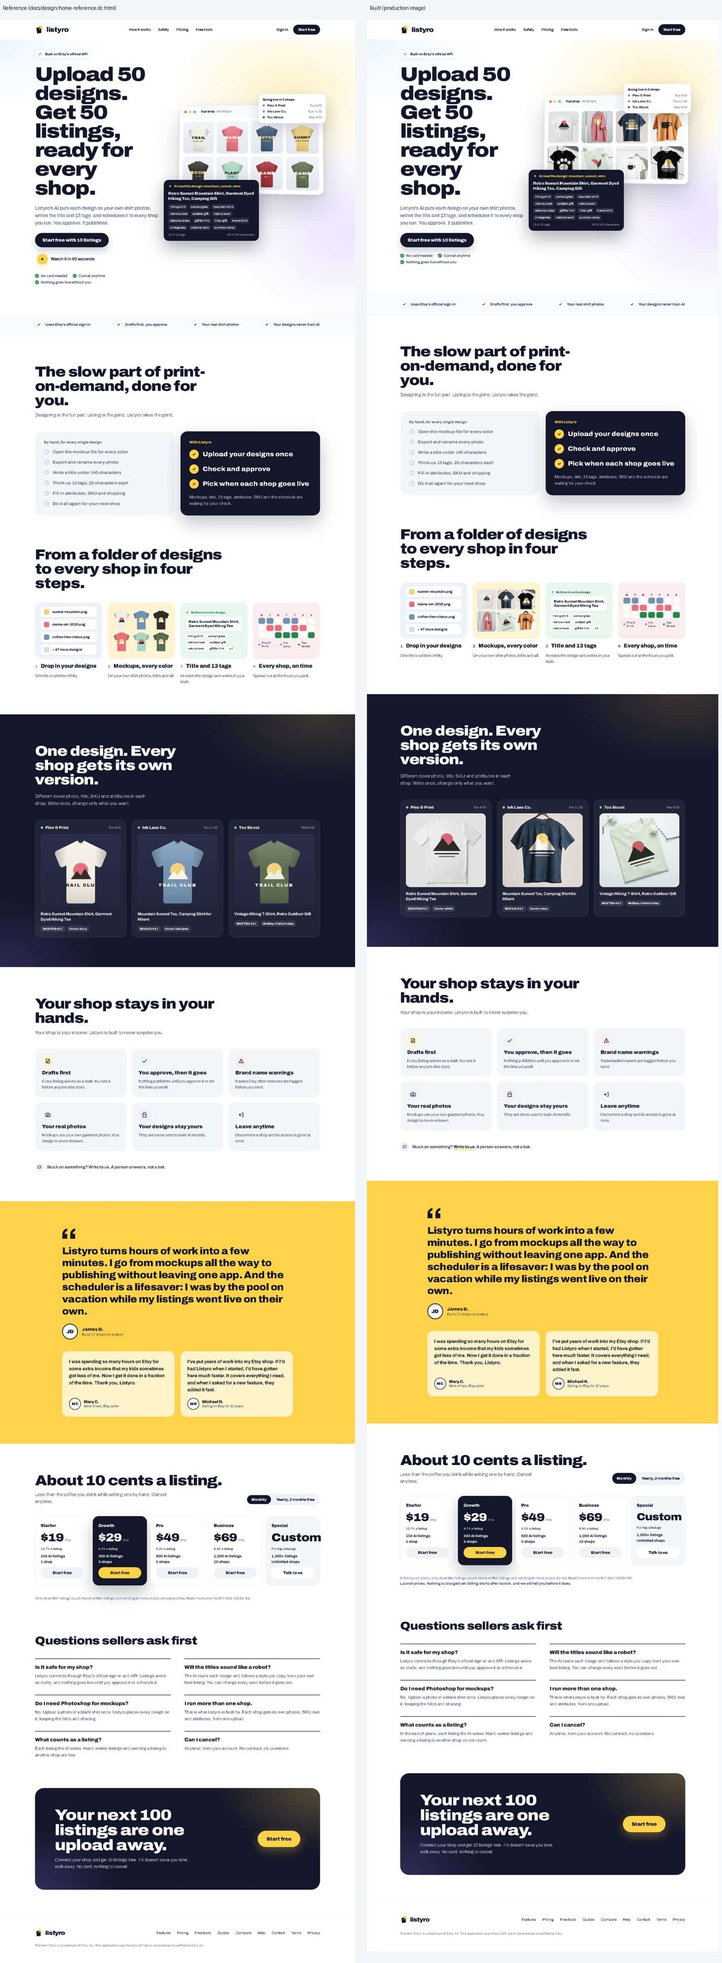
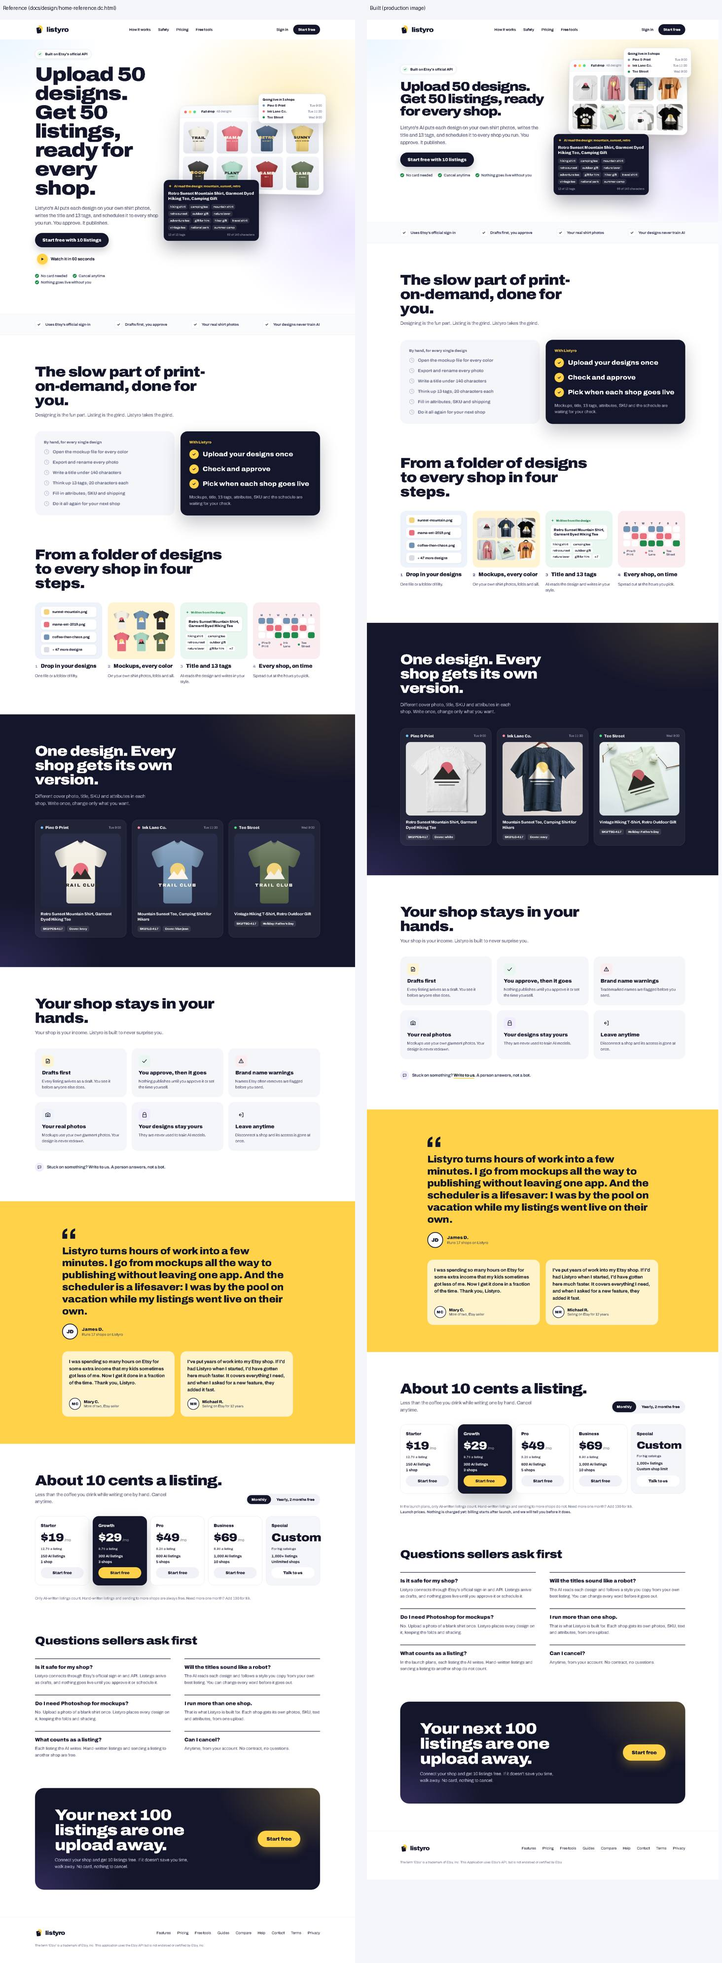
Site v3: the headline in three lines on desktop; the Special plan says Custom shop limit
The text column takes 6fr on desktop and the h1 is at most 11.6em wide, sized to its column (at most 64 px),
so it breaks as "Upload 50 designs. / Get 50 listings, ready / for every shop.". The app-wide cap is 200
shops, so the Special card no longer says unlimited.

diff --git a/frontend/lib/plans.test.ts b/frontend/lib/plans.test.ts
@@ -39,7 +39,7 @@ test("the plan config: the launch plans as agreed (7 November 2026)", () => {
   assert.match(TRIAL.line, /^10 free AI listings once you connect an Etsy shop that has never had a trial\./);
   assert.equal(SPECIAL.name, "Special");
   assert.match(SPECIAL.body, /More than 1,000 AI listings a month/);
-  assert.deepEqual([SPECIAL.price, SPECIAL.unit, SPECIAL.listings, SPECIAL.shops], ["Custom", "For big catalogs", "1,000+ listings", "Unlimited shops"]);
+  assert.deepEqual([SPECIAL.price, SPECIAL.unit, SPECIAL.listings, SPECIAL.shops], ["Custom", "For big catalogs", "1,000+ listings", "Custom shop limit"]);
   assert.deepEqual(SPECIAL.cta, { label: "Talk to us", href: "/request-invite?plan=custom" });
   // Each plan is larger than the one before it in everything that is counted.
   for (let i = 1; i < PLANS.length; i++) {

diff --git a/frontend/app/globals.css b/frontend/app/globals.css
@@ -240,6 +240,22 @@ body {
   gap: 48px;
   align-items: center;
 }
+/* Desktop (owner, 8 November 2026): the headline in three lines, "Upload 50 designs. / Get 50 listings, ready /
+   for every shop.". The text column gets 6fr; the h1 is 11.6em wide at most (the second line is 11.4em, so the
+   breaks fall there without <br>), and its size is the column's 1/11.6, never above 64 px, so the three lines
+   always fit (about 52 px in the 1,156 px content of 1366 and 1440). Phones and tablets keep the clamp. */
+@media (min-width: 1001px) {
+  .lx-hero {
+    grid-template-columns: minmax(0, 6fr) minmax(0, 5fr);
+  }
+  .lx-hero-text {
+    container-type: inline-size;
+  }
+  .lx-hero-text .lx-h1 {
+    font-size: min(64px, 8.6cqi);
+    max-width: 11.6em;
+  }
+}
 .lx-hv {
   position: relative;
   height: 580px;

diff --git a/frontend/lib/plans.ts b/frontend/lib/plans.ts
@@ -84,7 +84,8 @@ export const SPECIAL = {
   price: "Custom",
   unit: "For big catalogs",
   listings: "1,000+ listings",
-  shops: "Unlimited shops",
+  // The app-wide cap is 200 shops and the number is set per account: not "unlimited".
+  shops: "Custom shop limit",
   cta: { label: "Talk to us", href: "/request-invite?plan=custom" },
 };
 

diff --git a/CLAUDE.md b/CLAUDE.md
@@ -6,7 +6,7 @@ Aşama: davetle erken erişim. Etsy erişim seviyesi: **Commercial Access** (19 
 
 > Etsy, Listyro'yu 19 Ekim 2026'da Commercial Access için onayladı: uygulamanın Etsy sınırları **saniyede 150, günde 100.000 istek**; kişisel erişimin 5 kullanıcı sınırı artık yok. Onaylanan başvurunun kaydı `docs/commercial-application.md`'dedir. Ücret almaya başlamadan önce fiyatlar yayımlanır ve satıcılara önceden söylenir (fiyat sayfası bugün yalnızca planlanan fiyatları gösterir; ödeme alınmaz).
 >
-> **Kendi tavanlarımız daha düşük ve bilerek öyle: hesap başına varsayılan 8 (`MAX_SHOPS_PER_TENANT`), uygulama geneli 200 (`MAX_SHOPS_APP_WIDE`).** Hesap başına sayı yalnızca bir **varsayılandır, üst sınırı yoktur**: admin bir hesaba herhangi bir pozitif tam sayı verebilir (`PUT /api/admin/users/{id}/shops`, `tenant.max_shops`; 16 mağaza işleten, her biri kendi Etsy hesabı ve markası olan bir satıcı Listyro'yu kullanmak istiyor); uygulama geneli tavan ayrı bir kontroldür ve mağaza bağlanırken uygulanır. **Ana sayfa, Terms ve Privacy hiçbir yerde bir mağaza üst sınırı ya da büyük bir mağaza sayısı söylemez** ("Several shops; the number is set per account"; `lib/homeCopy.test.ts` denetler). İstisnalar: fiyat sayfasındaki ve ana sayfanın fiyat bölümündeki **lansman planlarının** mağaza sayıları (1, 3, 5, 10; Special "Unlimited shops", sahibin kararı, 8 Kasım 2026): bunlar `frontend/lib/plans.ts`'ten gelir, sayfaya elle yazılmaz; ve ana sayfadaki gerçek müşteri yorumunun kendi sözü ("Runs 17 shops on Listyro", `lib/marketing/testimonials.ts`). Bunları Etsy'nin mağaza sınırı değil, **günlük 100.000 istek bütçesi** belirler: bütçe tüm mağazalar arasında paylaşılır. Kullanılmayan bir mağaza arka planda istek harcamaz. Her gün kullanılan bir mağaza, senkronizasyon (**listing listeleyen bir sayfa** açıldığında ve önbellek 6 saatten eskiyse: 5 listing durumunun her biri için en az 1 istek, her 100 listing için 1 istek: küçük mağazada ~6, 3.000 listingli mağazada ~36; aynı mağaza için aynı anda tek iş. Her sayfadaki üst şerit tam senkron **tetiklemez**: yalnızca durum başına listing **sayısını** okur, günde bir kez 5 istek, `sync_shop_counts`; sayı listing içeriği değildir, 24 saat tutulabilir) ve **son 14 günde kullanılan her profil için ~12 istek** (görsel linkleri 5 saatte bir 1 istek, yapısal veri 20 saatte bir 7 istek) harcar: 2 profilli aktif bir mağaza ≈ 36/gün, 200 aktif mağaza ≈ 7.200/gün (bütçenin ~%7'si); üstüne her taslak (ölçülen ortalama ~15; 13 fotoğraflı bir listingde ~33–40: görsel başına 1, attribute başına 1, ~12 sabit). (Kişisel erişimde bütçe günde 5.000'di ve 80 aktif mağaza onun çoğunu yalnızca güncel kalmaya harcardı; tavan o yüzden 20'ydi.) **Bu tavanlar, Etsy'den günlük kota artışı alınmadan yükseltilmez**; kota artarsa aynı hesapla birlikte yükseltilir.
+> **Kendi tavanlarımız daha düşük ve bilerek öyle: hesap başına varsayılan 8 (`MAX_SHOPS_PER_TENANT`), uygulama geneli 200 (`MAX_SHOPS_APP_WIDE`).** Hesap başına sayı yalnızca bir **varsayılandır, üst sınırı yoktur**: admin bir hesaba herhangi bir pozitif tam sayı verebilir (`PUT /api/admin/users/{id}/shops`, `tenant.max_shops`; 16 mağaza işleten, her biri kendi Etsy hesabı ve markası olan bir satıcı Listyro'yu kullanmak istiyor); uygulama geneli tavan ayrı bir kontroldür ve mağaza bağlanırken uygulanır. **Ana sayfa, Terms ve Privacy hiçbir yerde bir mağaza üst sınırı ya da büyük bir mağaza sayısı söylemez** ("Several shops; the number is set per account"; `lib/homeCopy.test.ts` denetler). İstisnalar: fiyat sayfasındaki ve ana sayfanın fiyat bölümündeki **lansman planlarının** mağaza sayıları (1, 3, 5, 10; Special "Custom shop limit", sahibin kararı, 8 Kasım 2026): bunlar `frontend/lib/plans.ts`'ten gelir, sayfaya elle yazılmaz; ve ana sayfadaki gerçek müşteri yorumunun kendi sözü ("Runs 17 shops on Listyro", `lib/marketing/testimonials.ts`). Bunları Etsy'nin mağaza sınırı değil, **günlük 100.000 istek bütçesi** belirler: bütçe tüm mağazalar arasında paylaşılır. Kullanılmayan bir mağaza arka planda istek harcamaz. Her gün kullanılan bir mağaza, senkronizasyon (**listing listeleyen bir sayfa** açıldığında ve önbellek 6 saatten eskiyse: 5 listing durumunun her biri için en az 1 istek, her 100 listing için 1 istek: küçük mağazada ~6, 3.000 listingli mağazada ~36; aynı mağaza için aynı anda tek iş. Her sayfadaki üst şerit tam senkron **tetiklemez**: yalnızca durum başına listing **sayısını** okur, günde bir kez 5 istek, `sync_shop_counts`; sayı listing içeriği değildir, 24 saat tutulabilir) ve **son 14 günde kullanılan her profil için ~12 istek** (görsel linkleri 5 saatte bir 1 istek, yapısal veri 20 saatte bir 7 istek) harcar: 2 profilli aktif bir mağaza ≈ 36/gün, 200 aktif mağaza ≈ 7.200/gün (bütçenin ~%7'si); üstüne her taslak (ölçülen ortalama ~15; 13 fotoğraflı bir listingde ~33–40: görsel başına 1, attribute başına 1, ~12 sabit). (Kişisel erişimde bütçe günde 5.000'di ve 80 aktif mağaza onun çoğunu yalnızca güncel kalmaya harcardı; tavan o yüzden 20'ydi.) **Bu tavanlar, Etsy'den günlük kota artışı alınmadan yükseltilmez**; kota artarsa aynı hesapla birlikte yükseltilir.
 
 ---
 
@@ -64,7 +64,7 @@ Etsy'nin Commercial Access incelemesi için eklenenler; onaydan sonra da aynen g
 - **Creativity Standards:** taslak `who_made`, `when_made`, `is_supply` ve üretim ortaklarını referans listing'den kopyalar ve geri okuyup doğrular; referans listing'in **materials** alanı da kopyalanır (`reference.clean_materials`: yalnızca harf/rakam/boşluk, her biri en çok 45 karakter, en çok 13, tekrarsız; Etsy'nin bilinen sınırları, şemadan doğrulanınca yalnızca sabitler değişir), profil kartında görünür (`ProfileOut.materials`; `[]` referansta yok, `None` profil bir sonraki yenilemede okunacak) ve taslak sonrası okumada karşılaştırılır; referansta materials yoksa alan boş kalır, **asla uydurulmaz**; metin olduğu için her mağazada aynıdır; POD görünümlü (apparel şablonu ya da `who_made` başkası) ve üretim ortağı olmayan profil **uyarı** alır: profil kartında bir kez (`ProfileOut.production_note`) ve review sayfasında profil başına tek kısa satır, profile linkle (A6, 2026-10-22; önceden her listing kartında büyük sarı kutuydu; `pipeline/creativity.py`, `ContentOut.production_note`).
 - **Üretim yöntemi ve araçlar ("How it's made") API'de yok; satıcı listing başına hiçbir şey yapmaz (sahip kararı, 23 Ekim 2026; `docs/etsy-how-its-made.md`).** Etsy'nin listing düzenleyicisi "How does your shop produce this item?" ve "What tools are used to make this item?" sorar. Etsy'nin resmi OpenAPI dosyasında (developer.etsy.com'un bağladığı oluşturulmuş OAS, 23 Ekim 2026'da indirildi) ikisi de yok: getListing (69 alan), createDraftListing (36), updateListing (30) ve updateListingProperty (yalnızca kategori özelliği: `value_ids`/`values`/`scale_id`) ikisini de taşımaz, dosyanın hiçbir yerinde (açıklamalar ve enum değerleri dahil) geçmez; 24 Eylül 2026'daki kontrolde apparel kategorisinin özellikleri arasında da yoktu. **Profilin seçicisi bu yüzden Etsy'ye hiç ulaşmadı:** profil cevapları saklar (`listing_profile.how_made_production`, `how_made_tools`; "none" tek başına; `PATCH /api/profiles/{id}`, toplu `POST /api/profiles/how-made`), her taslak yolu `how_made.draft_fields(profile)` ekler ama gönderilecek alan olmadığı için boş döner. **Kural:** hiçbir onay adımı, işaretleme listesi ya da engel yok; bu iki cevap hiçbir taslağı, zamanlamayı ya da yayını bekletmez. Profil kartı tek satır der ("How it's made: shop alters it · computerized tools · change") ve altında tek bilgi satırı: "Etsy doesn't let apps set this yet, so it can't be sent automatically. You can set it for many listings at once in Shop Manager → Listings → select → Editing options." (`lib/howMade.ts::NOT_SENT`; profilin Shops tablosundaki "Apply to all profiles…" bölümünde de). Bir önceki istekte eklenen listing başına işaretleme **kaldırıldı**: "Finish in Etsy" sayfası ve kenar çubuğu rozeti, izleme işi (`watch_opened_drafts`), taslak başına "Tick in Etsy" adımları (`manual_fields.MANUAL_FIELDS` artık boş; mekanizma duruyor), review kartı ve "Where and when" satırları, ilk kullanım rehberinin "cevapsız profil bitmemiştir" koşulu; migration `0090_drop_how_made_opened` (base `0089_profile_merge_scrub`) izleme sütununu siler. **Yayını engelleyebilir mi:** şemada aktivasyon (`updateListing state=active`) için böyle zorunlu alan yok; saklanan kayıtlarda (41 yayın, 52 taslak Etsy yanıtı, başarısız işler) bu sorulardan söz eden hiçbir ret yok ve uygulama bu cevapları hiç göndermeden API üzerinden 28 yayın başarılı oldu. Etsy bir gün bu yüzden reddederse satıcıya tam olarak ne ayarlayacağı söylenir (`etsy/errors.py::HOW_MADE_FIX`) ve zamanlanmış çalışmanın kalanı devam eder (her yayın kendi işi). **Göndermeye hazır:** `ETSY_HOW_ITS_MADE_FIELDS` (kapalı) + `how_made.FIELD_NAMES`/`VALUES`; kaynak sırası önce referans listingin kendi cevapları (yenilemede `cached_payload["how_made"]`, Etsy alanı açınca), yoksa profilin seçimi (`how_made.in_use`); bugün hiçbir şey gönderilmez. Haftalık şema izleyici (`workers/etsy_spec.py`, Pazartesi 05:13 UTC) alan çıkarsa `ALERT_WEBHOOK_URL`'e bir kez yazar. `docs/commercial-application.md` bunu Etsy'nin açmasını istediğimiz API özelliği olarak listeler. Canlı API'nin bir listing için ne döndürdüğü sunucuda `python -m app.cli etsy-raw-listing --profile "<ad>"` ile görülür (`ops/raw_listing.py`, üç salt okunur GET). `tests/test_how_made.py` (kaynak sırası, hiçbir taslağın bu alanları göndermemesi, cevaplı ya da cevapsız taslağın beklememesi, bir listingin reddine rağmen zamanlanmış çalışmanın devamı, hesap izolasyonu, listing başına adım olmaması), `tests/test_migration_0090.py`, `lib/howMade.test.ts`; `tests/test_end_to_end.py` hiçbir `createDraftListing` isteğinin şemada olmayan alan taşımadığını doğrular.
 - **"Etsy erişimi bitti" ve ihlal runbook'ları:** `docs/etsy-access-ended.md` (`ETSY_CALLS_BLOCKED=true` → satıcılara bildir → `python -m app.cli purge-etsy-data [--apply]`; varsayılan kuru çalıştırma; `app/ops/etsy_data.py`, mağazaya bağlı yeni bir tablo `ETSY_TABLES`'a eklenmezse test kırılır) ve `docs/security-incident.md` (keşiften sonra 24 saat içinde dpo@etsy.com ve etkilenen satıcılar; anahtar/kimlik bilgisi kaygısı security@etsy.com; anahtar değiştirme adımları).
-- **Metin dili:** site ve uygulama "birkaç mağazayı, her biri kendi listingleri ve gruplarıyla yönetmek" der; "aynı listing birçok mağazada", "toplu/mass listing", "tek tıkla binlerce" gibi ifadeler kullanılmaz (tek istisna: "bulk" kelimesi yalnızca satıcının arama ifadesi olan `list-print-on-demand-shirts-in-bulk` rehberinde; hacim vaadi olarak değil). Analytics "profit, cost and ads reporting" olarak anlatılır, Etsy Stats kopyası olarak değil. Fiyatlandırma sayfası fiyatın lansmandan sonra geçerli olduğunu söyler; ödeme ya da checkout kodu yoktur. **Lansman planları tek yerdedir (`frontend/lib/plans.ts`; 7 Kasım 2026, site v3'te 8 Kasım 2026)**: Starter 150 AI listing/ay · 1 mağaza · $19/ay · $190/yıl; Growth 300 · 3 · $29 · $290 (vurgulanan plan: mürekkep kart, rozet yok; satıcılar hakkında iddia yok); Pro 600 · 5 · $49 · $490; Business 1.000 · 10 · $69 · $690; Special: "Custom", "For big catalogs", "1,000+ listings", "Unlimited shops", **"Talk to us"** → `/request-invite?plan=custom` (form ayrıca aylık listing sayısını sorar ve nota yazar); **Extra pack** +100 AI listing $9 (`EXTRA_PACK`); **yıllık = 10 × aylık** (anahtar "Monthly" / "Yearly, 2 months free", `YEARLY_LABEL`; yalnızca gösterimi değiştirir: `components/marketing/PlanCards.tsx`, form değil). **Listing başına fiyat hesaplanır, yazılmaz:** kartlardaki "12.7¢ a listing" (`perListingFact`, yıllıkta 12 aya bölünür) ve başlık "About 10 cents a listing." (`aboutPerListing`, vurgulanan planın yuvarlanmış değeri). **Deneme (tek ifade, her yerde: hero, kapanış, fiyat, Help, kayıt ekranları; `TRIAL`):** 10 ücretsiz AI listing, yalnızca hesap daha önce deneme almamış bir Etsy mağazası bağladıktan sonra; Etsy mağazası ve Etsy hesabı başına ömür boyu bir kez; mağaza bağlanmadan ücretsiz listing yok. **Bu yalnızca metindir:** deneme mantığı faturalamayla gelir; faturalama kapalıyken hiçbir hesap için hiçbir şey değişmez. Zamanlama her planda. **Yalnızca yapay zekânın yazdığı listingler sayılır:** elle yazılan listing, fotoğraflar ve listingi daha çok mağazaya göndermek sayılmaz (`LISTING_LINE`; Help ve ana sayfa "In the launch plans…" diye anlatır, çünkü bugünkü uygulamanın "Listings generated" sayacı (`core/allowance.py`, B12) elle yazılanı hâlâ 1 sayar: faturalama açılınca ikisi birlikte değişir). Bunlar **yalnızca gösterim içindir**: hiçbir plan uygulanmaz, satılmaz, hesaba bağlanmaz; kullanım hakkı ve mağaza sınırı hâlâ hesap başına Admin'den verilir. **Birincil düğme tek yerden gelir (`frontend/lib/marketing/cta.ts`):** etiket "Start free" (hero'da "Start free with 10 listings"); adres faturalama kapalıyken (`NEXT_PUBLIC_BILLING` ≠ `on`, build anında) `/request-invite`, açılınca `/register` (`START_HREF`); başlık, hero, plan kartları, kapanış ve her sayfanın kapanış kutusu onu okur. Fiyat sayfası "Pay for the listings Listyro writes" başlığı, "Invite-only early access. No payment is taken today; these plans start after launch." satırı ve düğmeyle açılır; yanında ve ana sayfanın fiyat bölümünde şu uyarı durur: "Launch prices. Nothing is charged yet: billing starts after launch, and we will tell you before it does." (`PLANNED_NOTICE`). **"Free" başlıkta ya da rozette kullanılmaz**; düğmelerde ve denemenin kendi cümlelerinde vardır. Terms fiyat yazmaz, fiyat sayfasına işaret eder. `lib/plans.test.ts` şunlarda kırılır: fiyat sayfasında form/girdi/ödeme bağlantısı ya da bir ödeme kütüphanesi varsa; uyarı cümlesi yoksa; sayfa, kartlar ya da ana sayfa bir planı, fiyatı ya da listing başına fiyatı kendisi yazıyorsa; `docs/commercial-application.md`'nin **onaylanan plan listesi değişirse** ya da altındaki tarihli "Launch prices (7 November 2026, after approval)" notu ve `docs/etsy-compliance.md` dosyadan ayrışırsa; Terms fiyat yazarsa. Kapasite: 13 fotoğraflı bir listingin taslağı ~33–40 istektir (görsel başına 1, yazılan attribute başına 1, ~12 sabit); ~35 istek/listing ile en büyük lansman planı (1.000 listing/ay) satıcı başına günde ~1.170 istek ister, onaylanan 100.000/günün ~%1,2'si (listing başına tek taslak için; birden çok mağazaya giden listing her mağazada ~35); onaylanan başvurunun planları (en çok 500 listing/ay, ~600 istek/gün) başvuru belgesinde aynen durur.
+- **Metin dili:** site ve uygulama "birkaç mağazayı, her biri kendi listingleri ve gruplarıyla yönetmek" der; "aynı listing birçok mağazada", "toplu/mass listing", "tek tıkla binlerce" gibi ifadeler kullanılmaz (tek istisna: "bulk" kelimesi yalnızca satıcının arama ifadesi olan `list-print-on-demand-shirts-in-bulk` rehberinde; hacim vaadi olarak değil). Analytics "profit, cost and ads reporting" olarak anlatılır, Etsy Stats kopyası olarak değil. Fiyatlandırma sayfası fiyatın lansmandan sonra geçerli olduğunu söyler; ödeme ya da checkout kodu yoktur. **Lansman planları tek yerdedir (`frontend/lib/plans.ts`; 7 Kasım 2026, site v3'te 8 Kasım 2026)**: Starter 150 AI listing/ay · 1 mağaza · $19/ay · $190/yıl; Growth 300 · 3 · $29 · $290 (vurgulanan plan: mürekkep kart, rozet yok; satıcılar hakkında iddia yok); Pro 600 · 5 · $49 · $490; Business 1.000 · 10 · $69 · $690; Special: "Custom", "For big catalogs", "1,000+ listings", "Custom shop limit", **"Talk to us"** → `/request-invite?plan=custom` (form ayrıca aylık listing sayısını sorar ve nota yazar); **Extra pack** +100 AI listing $9 (`EXTRA_PACK`); **yıllık = 10 × aylık** (anahtar "Monthly" / "Yearly, 2 months free", `YEARLY_LABEL`; yalnızca gösterimi değiştirir: `components/marketing/PlanCards.tsx`, form değil). **Listing başına fiyat hesaplanır, yazılmaz:** kartlardaki "12.7¢ a listing" (`perListingFact`, yıllıkta 12 aya bölünür) ve başlık "About 10 cents a listing." (`aboutPerListing`, vurgulanan planın yuvarlanmış değeri). **Deneme (tek ifade, her yerde: hero, kapanış, fiyat, Help, kayıt ekranları; `TRIAL`):** 10 ücretsiz AI listing, yalnızca hesap daha önce deneme almamış bir Etsy mağazası bağladıktan sonra; Etsy mağazası ve Etsy hesabı başına ömür boyu bir kez; mağaza bağlanmadan ücretsiz listing yok. **Bu yalnızca metindir:** deneme mantığı faturalamayla gelir; faturalama kapalıyken hiçbir hesap için hiçbir şey değişmez. Zamanlama her planda. **Yalnızca yapay zekânın yazdığı listingler sayılır:** elle yazılan listing, fotoğraflar ve listingi daha çok mağazaya göndermek sayılmaz (`LISTING_LINE`; Help ve ana sayfa "In the launch plans…" diye anlatır, çünkü bugünkü uygulamanın "Listings generated" sayacı (`core/allowance.py`, B12) elle yazılanı hâlâ 1 sayar: faturalama açılınca ikisi birlikte değişir). Bunlar **yalnızca gösterim içindir**: hiçbir plan uygulanmaz, satılmaz, hesaba bağlanmaz; kullanım hakkı ve mağaza sınırı hâlâ hesap başına Admin'den verilir. **Birincil düğme tek yerden gelir (`frontend/lib/marketing/cta.ts`):** etiket "Start free" (hero'da "Start free with 10 listings"); adres faturalama kapalıyken (`NEXT_PUBLIC_BILLING` ≠ `on`, build anında) `/request-invite`, açılınca `/register` (`START_HREF`); başlık, hero, plan kartları, kapanış ve her sayfanın kapanış kutusu onu okur. Fiyat sayfası "Pay for the listings Listyro writes" başlığı, "Invite-only early access. No payment is taken today; these plans start after launch." satırı ve düğmeyle açılır; yanında ve ana sayfanın fiyat bölümünde şu uyarı durur: "Launch prices. Nothing is charged yet: billing starts after launch, and we will tell you before it does." (`PLANNED_NOTICE`). **"Free" başlıkta ya da rozette kullanılmaz**; düğmelerde ve denemenin kendi cümlelerinde vardır. Terms fiyat yazmaz, fiyat sayfasına işaret eder. `lib/plans.test.ts` şunlarda kırılır: fiyat sayfasında form/girdi/ödeme bağlantısı ya da bir ödeme kütüphanesi varsa; uyarı cümlesi yoksa; sayfa, kartlar ya da ana sayfa bir planı, fiyatı ya da listing başına fiyatı kendisi yazıyorsa; `docs/commercial-application.md`'nin **onaylanan plan listesi değişirse** ya da altındaki tarihli "Launch prices (7 November 2026, after approval)" notu ve `docs/etsy-compliance.md` dosyadan ayrışırsa; Terms fiyat yazarsa. Kapasite: 13 fotoğraflı bir listingin taslağı ~33–40 istektir (görsel başına 1, yazılan attribute başına 1, ~12 sabit); ~35 istek/listing ile en büyük lansman planı (1.000 listing/ay) satıcı başına günde ~1.170 istek ister, onaylanan 100.000/günün ~%1,2'si (listing başına tek taslak için; birden çok mağazaya giden listing her mağazada ~35); onaylanan başvurunun planları (en çok 500 listing/ay, ~600 istek/gün) başvuru belgesinde aynen durur.
 
 ## Zorunlu uyum unsurları (arayüzde bulunacak)
 

diff --git a/docs/commercial-application.md b/docs/commercial-application.md
@@ -173,7 +173,7 @@ Only listings written by AI count. Listings a seller writes by hand, photos, and
 
 The home page no longer repeats the trademark notice in a box under its first heading. The notice is unchanged, word for word, in the footer of every page, the home page included.
 
-Since 8 November 2026 (site v3) the home page also says "Built on Etsy's official API" and "Uses Etsy's official sign-in", as plain facts about how it connects, in smaller type than the Listyro name and its heading; the trademark notice, word for word, is in the footer of every page. Nothing says or implies that Etsy endorses, certifies or works with Listyro. The plans and the trial above are unchanged in substance; the Special plan's card says "Talk to us" and "Unlimited shops" (the number of shops is still set per account, and the app-wide cap still applies).
+Since 8 November 2026 (site v3) the home page also says "Built on Etsy's official API" and "Uses Etsy's official sign-in", as plain facts about how it connects, in smaller type than the Listyro name and its heading; the trademark notice, word for word, is in the footer of every page. Nothing says or implies that Etsy endorses, certifies or works with Listyro. The plans and the trial above are unchanged in substance; the Special plan's card says "Talk to us" and "Custom shop limit" (the number of shops is set per account, and the app-wide cap still applies).
 
 ## API features we would like Etsy to expose (added 23 October 2026, after approval)
 
